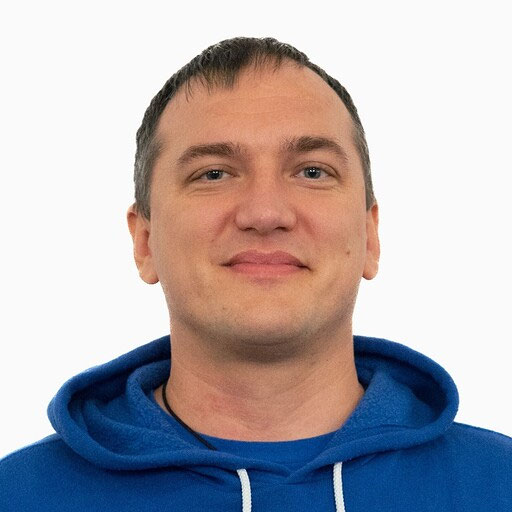
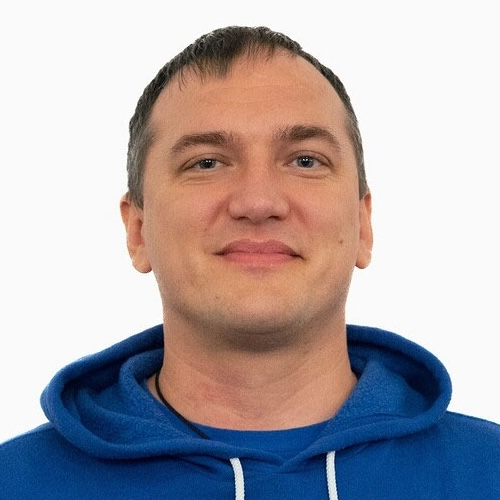
added Hannah to featured speakers

diff --git a/src/sessions/ipfs-in-the-wild/index.html b/src/sessions/ipfs-in-the-wild/index.html
@@ -1,0 +1,41 @@
+---
+layout: base
+title: Working IPFS Systems in the Wild
+---
+
+<header class="page-header">
+    <h1 class="page-title">
+        Featured Session
+    </h1>
+</header>
+
+<section class="page-block featured-section">    
+        <h2 class="featured-title">Working IPFS Systems in the Wild</h2>
+    <div class="info-grid-item">
+
+
+<p>Best practices for building content addressing in a way that actually works — a sort of “lessons learned” from the last 5 years or so of not always succeeding.</p>
+
+<p>Hannah will also be leading the workshop: <a href="https://cfp.ipfsconnect.org/ipfsconnect-istanbul/talk/N3GHEV/">Easy on ramps, easy off ramps: Bridging Web2 to Web3</a>.</p>
+
+    </div>
+
+    <h3 class="featured-subtitle">About the Speaker</h3>
+
+
+    <div class="speaker-block">
+        <img src="/images/speaker-hannah-howard.jpg" class="speaker-image" alt="Image of Hannah Howard">
+        <div class="speaker-details">
+            <h3>Hannah Howard</h3>
+            <span><a href="https://www.plnetwork.io/directory/members/cldvoj8kz08qpu21krl037w3i" target="_blank">Protocol Labs</a></span> <br />
+            <span>𝕏 <a href="https://twitter.com/techgirlwonder" target="_blank">@techgirlwonder</a></span>
+        </div>
+    </div>
+
+
+    <div class="info-grid-item conference-text">
+        
+        <p>Hannah Howard has made contributions across the IPFS ecosystem for 5 years. She wrote parts of Bitswap, all of Graphsync, most of the initial Filecoin markets protocols, and most recently Lassie, a universal retrieval client for IPFS in Go. Hannah is now lead engineer on the <a href="https://saturn.tech/" target="_blank">Saturn</a> team, focusing on delivering a high performance web3 CDN. Before all this, Hannah just wrote web apps for people, and before that, she spend 10 years working in non-profits.</p>
+
+    </div>
+</section>

diff --git a/src/sessions/index.html b/src/sessions/index.html
@@ -13,6 +13,7 @@ title: Sessions & Schedule
 
 <h2 class="featured-title">Featured Sessions</h2>
 <ul>
+    <li><a href="/sessions/ipfs-in-the-wild/">Working IPFS Systems in the Wild</a></li>
     <li><a href="/sessions/carv3/">Cars and other forms of transportation</a></li>
     <li><a href="/sessions/iroh/">Iroh: Take IPFS to millions of new places</a></li>
     <li><a href="/sessions/ipfs-over-storj/">IPFS over Storj Backend</a></li>
